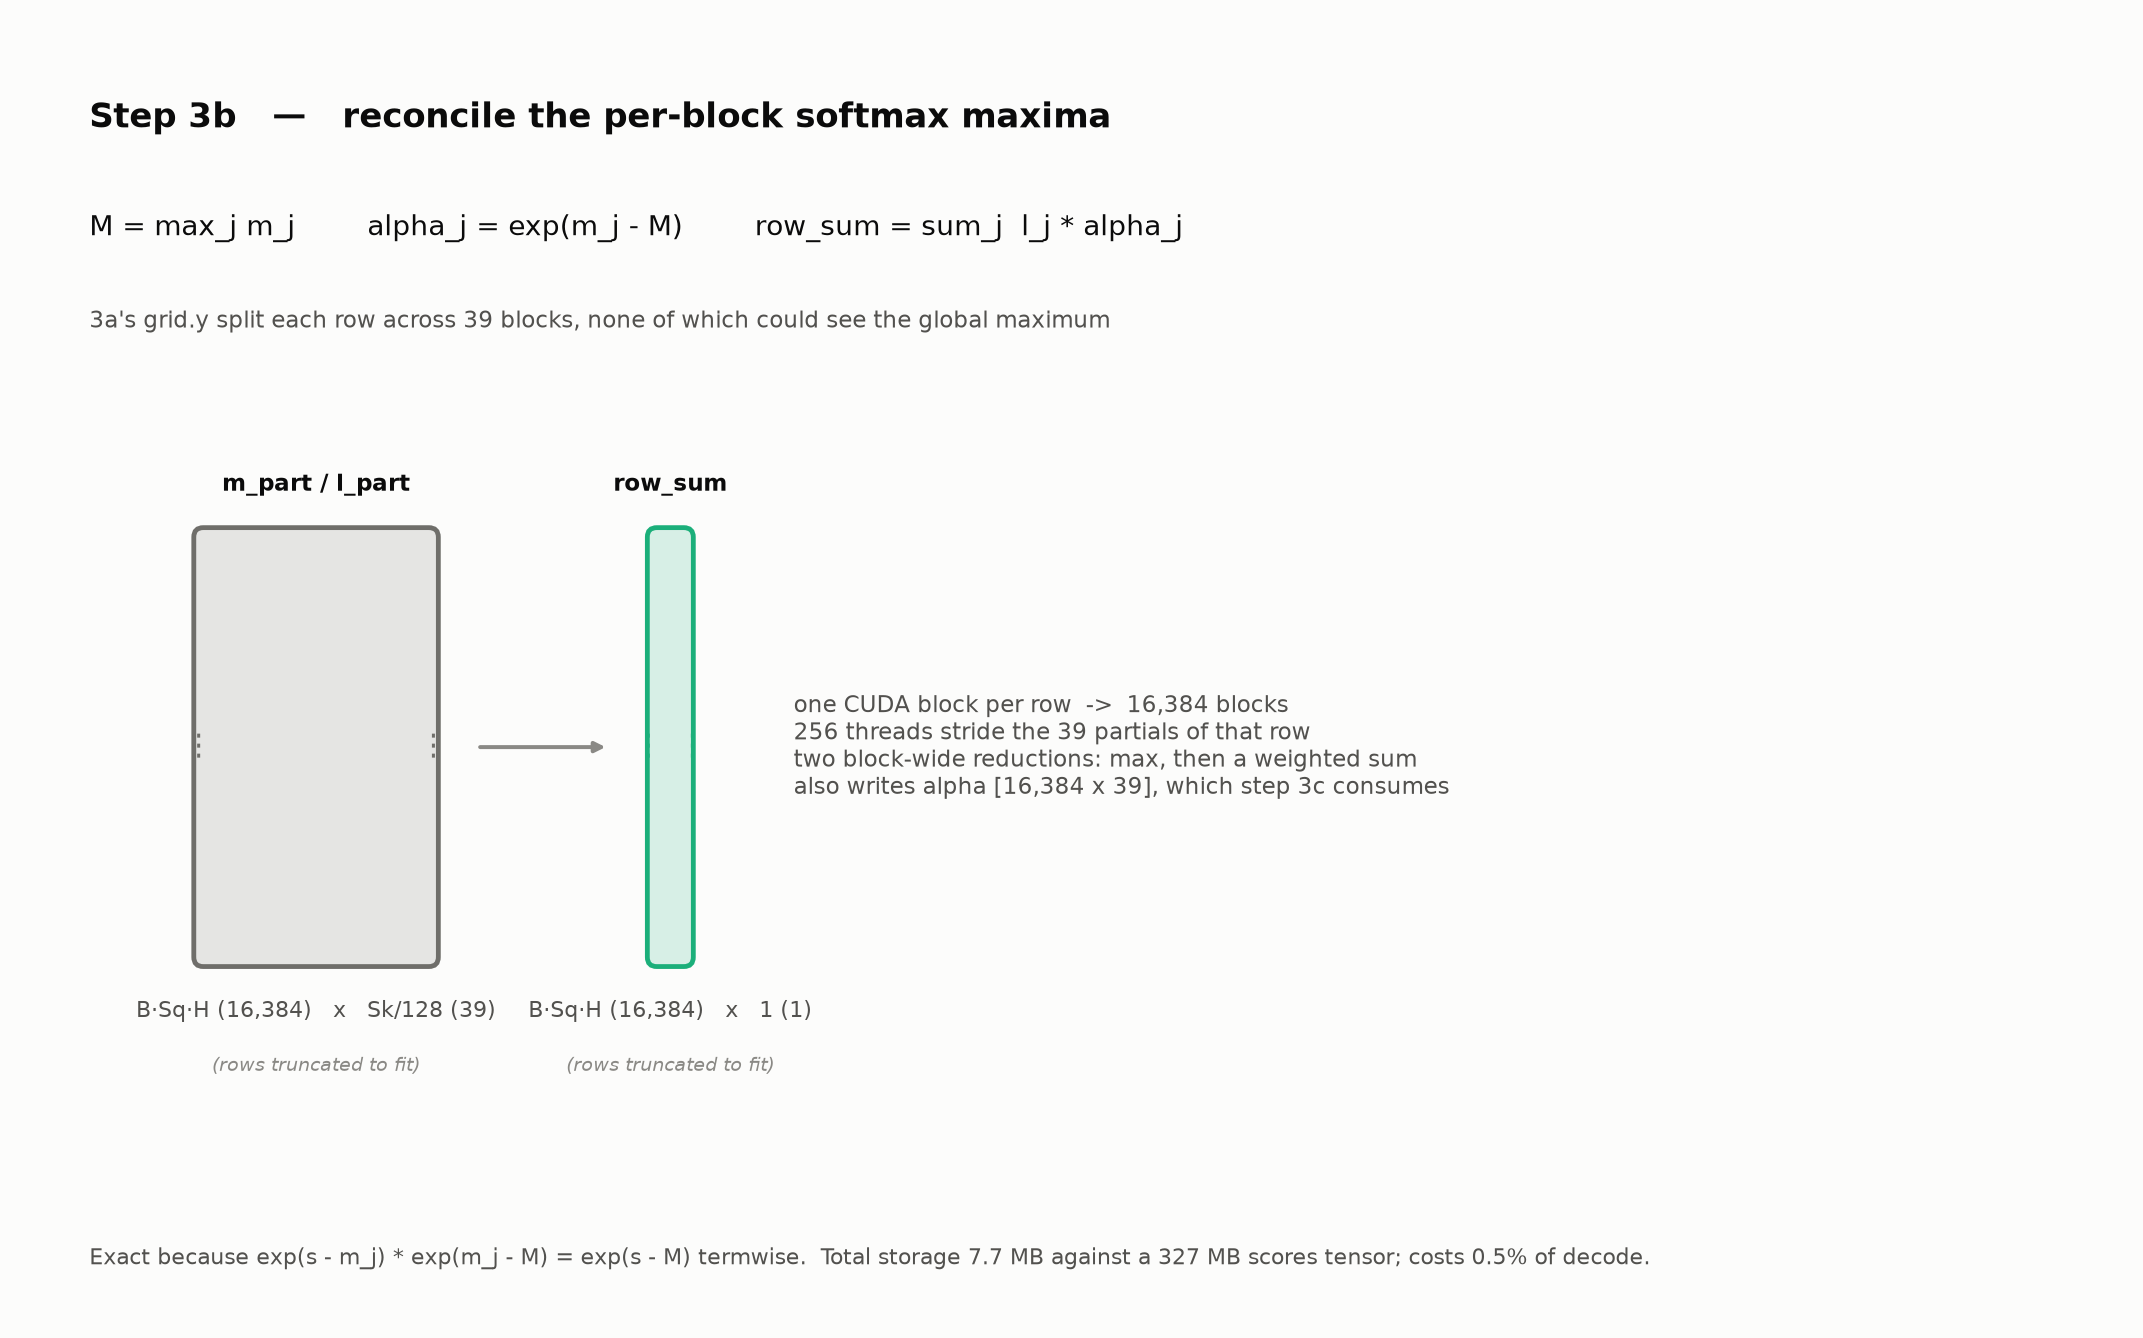
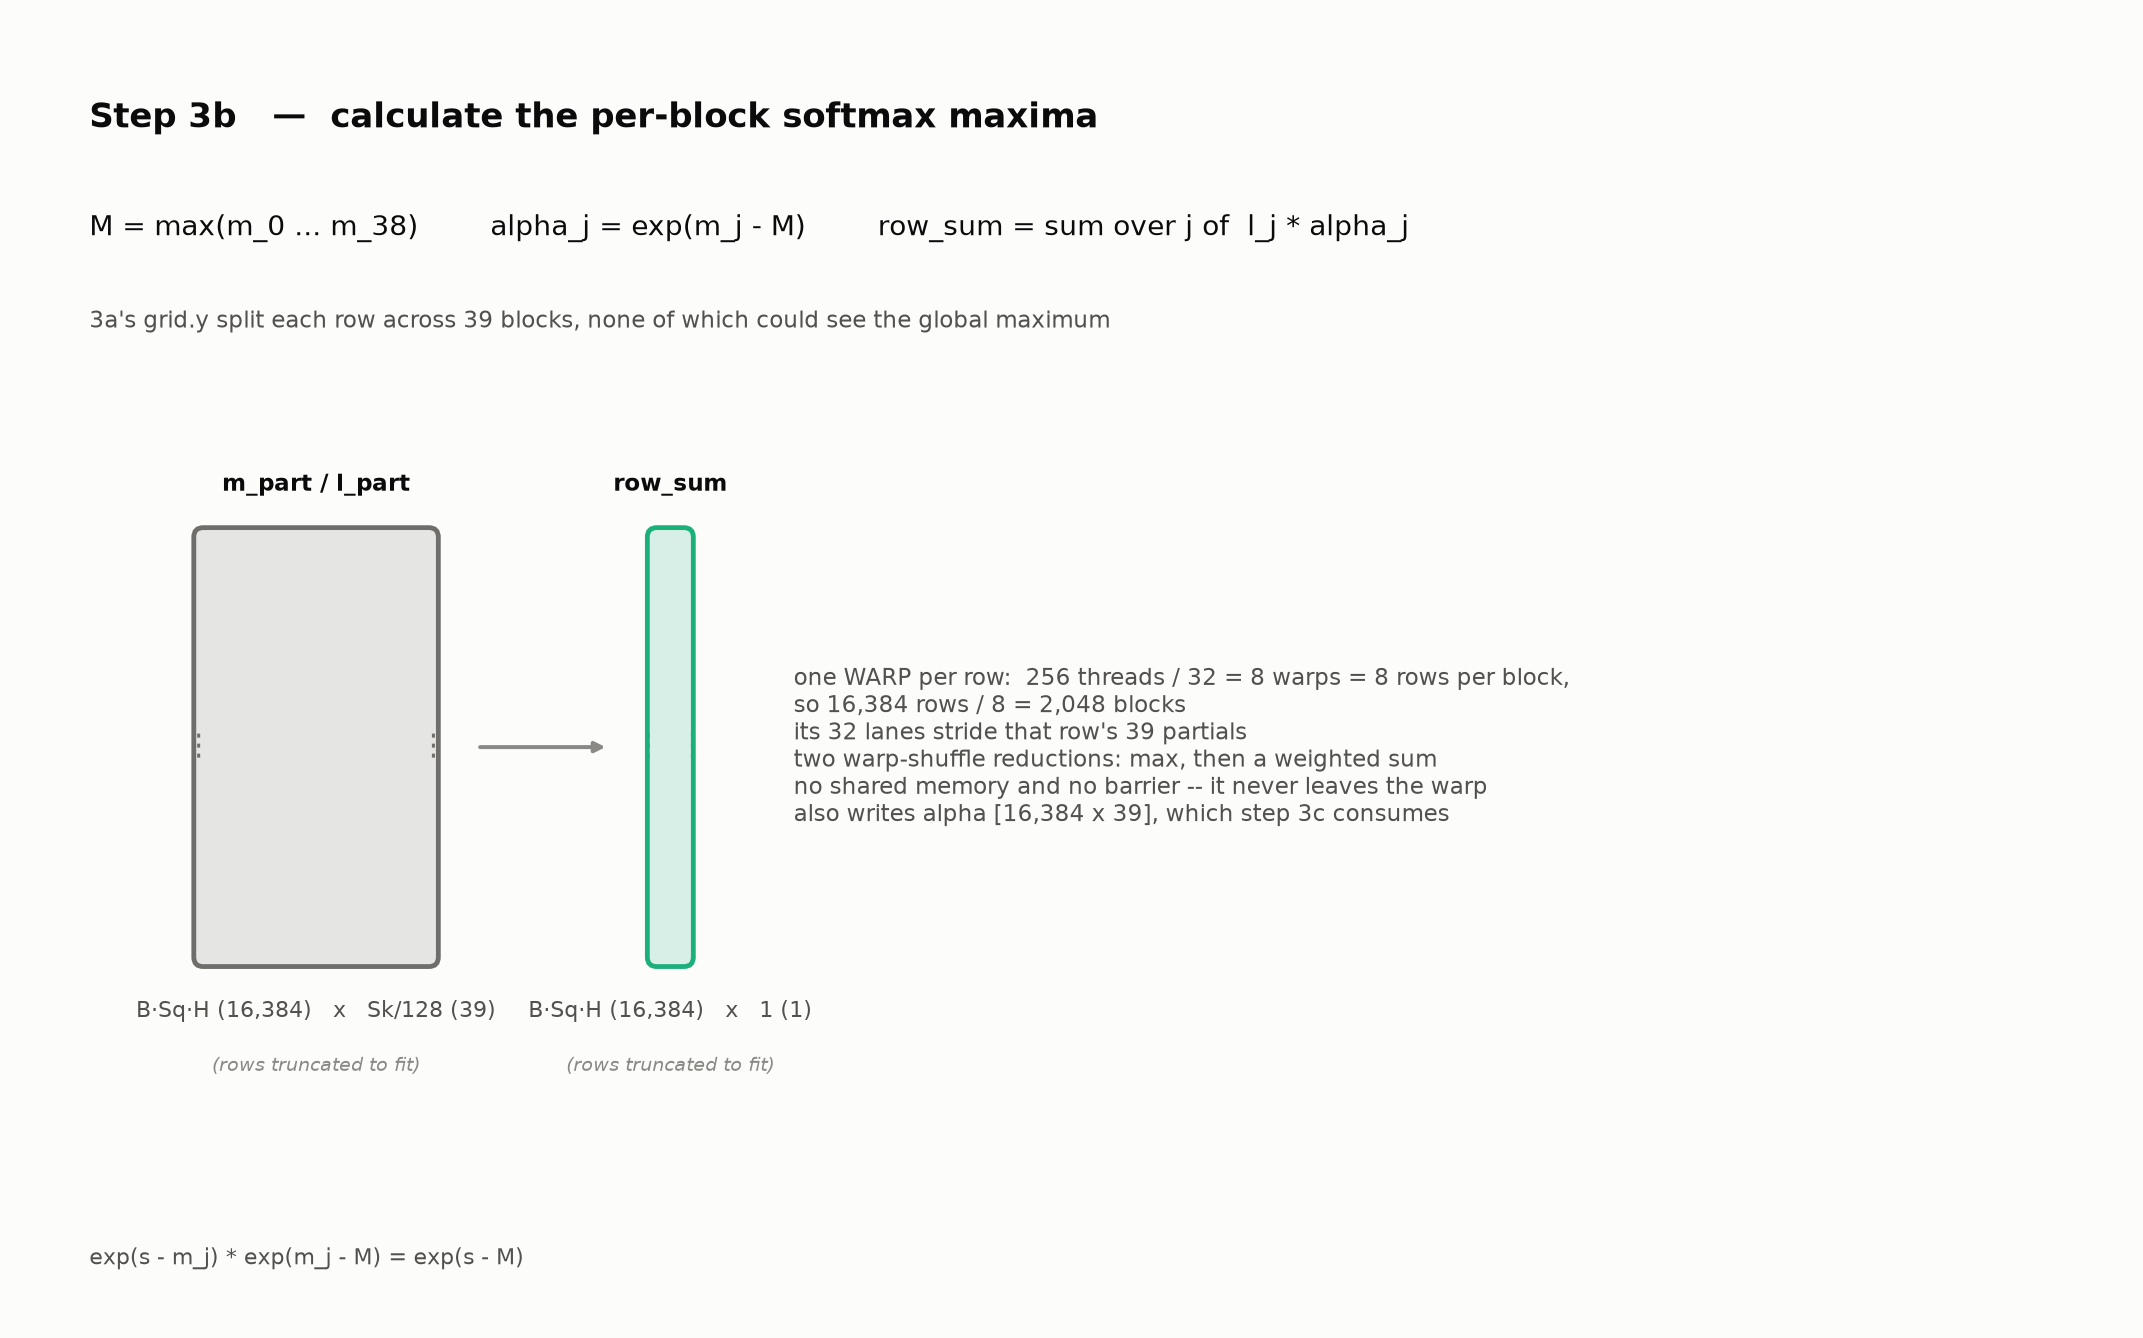
Updated 3a and benchmarks

diff --git a/docs/make_figures.py b/docs/make_figures.py
@@ -454,7 +454,8 @@ def steps():
          "128 row tiles -> grid.x", ("B·Sq·H", "kv_rank+rope")),
         ("[ c_kv | pe_cache ]^T", 576, 4989, KV_C, (128, 576),
          "39 key panels -> grid.y", ("kv_rank+rope", "Sk")),
-        ("scores", 16384, 4989, KV_C, (128, 128), "128 x 128 per block",
+        ("scores", 16384, 4989, KV_C, (128, 128),
+         "128 x 128 per block\nrow stride padded 4,989 -> 4,992 before storing,\nso every row starts on a 128 B line",
          ("B·Sq·H", "Sk")),
         "grid.x -> flat = B.Sq.H / 128 = 128 tiles   |   grid.y -> Sk / 128 = 39 tiles   |   no grid.z\n"
         "A block's 128 rows are the 128 heads of ONE query, so the [128 keys x 576] slab it stages -- 512 dims from c_kv, then 64 from pe_cache -- is read by all 128 of them.",
@@ -464,8 +465,8 @@ def steps():
     Hb = HEAD + PAD_T + MAXH + PAD_B + FOOT
     fig, ax = canvas(11, 11 * Hb / 100.0)
     H = Hb
-    step_header(ax, H, "Step 3b   —   reconcile the per-block softmax maxima",
-                "M = max_j m_j        alpha_j = exp(m_j - M)        row_sum = sum_j  l_j * alpha_j",
+    step_header(ax, H, "Step 3b   —  calculate the per-block softmax maxima",
+                "M = max(m_0 ... m_38)        alpha_j = exp(m_j - M)        row_sum = sum over j of  l_j * alpha_j",
                 "3a's grid.y split each row across 39 blocks, none of which could see the global maximum")
     ymid = H - HEAD - PAD_T - MAXH / 2.0
     sb = 0.30
@@ -478,14 +479,15 @@ def steps():
     matrix(ax, xa + 10.0, ymid, 16384, 1, 2.2, KV_C, "row_sum",
            syms=("B·Sq·H", "1"))
     ax.text(xa + 17.0, ymid,
-            "one CUDA block per row  ->  16,384 blocks\n"
-            "256 threads stride the 39 partials of that row\n"
-            "two block-wide reductions: max, then a weighted sum\n"
+            "one WARP per row:  256 threads / 32 = 8 warps = 8 rows per block,\n"
+            "so 16,384 rows / 8 = 2,048 blocks\n"
+            "its 32 lanes stride that row's 39 partials\n"
+            "two warp-shuffle reductions: max, then a weighted sum\n"
+            "no shared memory and no barrier -- it never leaves the warp\n"
             "also writes alpha [16,384 x 39], which step 3c consumes",
             va="center", fontsize=8.6, color=INK2)
     ax.text(3, 2.0,
-            "Exact because exp(s - m_j) * exp(m_j - M) = exp(s - M) termwise.  Total storage 7.7 MB against a 327 MB scores tensor; "
-            "costs 0.5% of decode.",
+            "exp(s - m_j) * exp(m_j - M) = exp(s - M)",
             fontsize=8.4, va="bottom", color=INK2)
     fig.savefig(os.path.join(OUT, "step_3b.png"), dpi=190, facecolor=SURFACE,
                 bbox_inches="tight", pad_inches=0.14)

diff --git a/README.md b/README.md
@@ -221,37 +221,54 @@ step:
   so a block's rows are the 128 heads of one query. The slab it stages is
   `[128 keys × 32 dims]` per reduction step, `[128 keys × 576]` over the whole
   block — 512 of those dims from `c_kv` and the last 64 from `pe_cache` — and every
-  one of the 128 heads reads it.
-- **Softmax exponentials moved *here*.** Step 3c stages each score once per rank
-  tile — 4 times — so any per-score work there is done 4× over. 3a sees each score
-  exactly once, in registers, so it exponentiates in the epilogue and gets the
-  row sum for free.
-- **Per-block partials instead of atomics.** Emitting `(m_j, l_j)` for step 3b to
-  reconcile removes a float `atomicMax` (which CUDA has no native instruction
-  for) and ~39 atomics per row.
-- **Output row-stride padded to 128 B lines.** A row stride that is not a whole
-  cache line makes every row start at a different offset; padding took store
-  sectors per request from **5.75 → 4.00**.
-- **The merged reduction costs nothing at the staging loop.** Because both
-  operand pairs are contiguous in `r` and the rope/nope choice is uniform across
-  the block, the shared recipe's base-pointer folding resolves that two-way
-  source select *once per reduction tile* rather than per staged element. Both
-  of this kernel's staging loops also split by the same 32, so they share one
-  invariant column index and one hoisted predicate. 3a ends at 107 registers.
+  one of the 128 heads requires it.
+- **Softmax exponentials.** Each score is already sitting in a register here, so
+  3a exponentiates it on the way out and accumulates a partial sum. `grid.y` gives a
+  block only 128 of the `Sk` keys: 8 keys in a thread's own registers, then the 16
+  threads sharing that row combined by an `__shfl_xor` butterfly. That needs no
+  shared memory and no barrier because those 16 threads are half of one warp. The
+  tile is sized for it — `16 threads × 8 keys = 128 = kScoreSkTile`, so a row's
+  whole slice is warp-local. What block `j` ends up with is the pair `(m_j, l_j)`:
+  the largest score it saw, and `l_j = Σ exp(s − m_j)` over its 128 keys. The 39
+  such pairs per row are reconciled into the real denominator by 3b.
+- **Output row-stride padded to 128 B lines.** `scores` is `Sk` wide and `Sk` is a
+  runtime value: at 4,989 a row is 19,956 B, not a whole number of cache lines, so
+  each row begins at a different offset inside one and a warp's 64 B store run
+  straddles a sector boundary instead of filling two. Rounding the stride up to
+  4,992 floats — the next multiple of 32 — starts every row on a line. The 3 pad 
+  columns are never written or read.
+- **Switching operands mid-reduction is free.** Running one 576-deep loop means
+  the staging code has to pick its source at `r = 512` — `c_kv` before it,
+  `pe_cache` after — which could have meant a test per staged element. There is a
+  flag `rope = r0 >= kv_rank`, where `r0` is the reduction-tile counter walking
+  `0, 32, 64 … 544` through the 576 depth. Being a loop counter, it is identical
+  for every thread and constant for the whole tile — no branch per element and
+  no divergence. That same 32 is what both staging loops, q side and c_kv cache 
+  side, divide their index by, so the column index and its `< tile_len` predicate 
+  are computed once and serve both.
 
-## Step 3b — Reconcile the Per-Block Softmax Maxima
+## Step 3b — Calculate the Per-Block Softmax Maxima
 
 ![Step 3b](docs/step_3b.png)
 
 **Techniques Specific to This Step**
 
-- **The flash-softmax combine, done as a separate pass.** Exact because
-  `exp(s − m_j) · exp(m_j − M) = exp(s − M)` holds termwise for *any* `m_j`.
-- **The kernel boundary is the grid-wide barrier**, for free. This cannot be done
-  with atomics inside 3a: `(M, L)` is a *coupled* two-word update — `L`'s
-  correction depends on `M`'s new value — which would need a lock or a 128-bit CAS
-  under heavy contention.
-- **`alpha` does double duty**: it is the weight in this kernel's denominator sum
+- **The flash-softmax combine as a separate pass.** Softmax needs `exp(s − M)`
+  with `M` the maximum over all `Sk` keys of the row, but each 3a block saw only
+  its own 128 of them, so block `j` exponentiated against its *local* maximum `m_j`
+  and stored `exp(s − m_j)`. 3b reads the 39 maxima of a row, takes the largest of
+  them, `M = max(m_0 … m_38)`, and writes the correction `alpha_j = exp(m_j − M)`. 
+  One multiply then repairs any stored score, `exp(s − m_j) · exp(m_j − M) = exp(s − M)`. 
+  The same `alpha_j` reweights the partial sums into the real denominator: 
+  `row_sum = Σ l_j · alpha_j` over the 39 partials.
+- **The kernel boundary is the grid-wide barrier.** `M` is not knowable until all
+  39 of a row's blocks have reported, and blocks within one launch cannot wait for
+  each other — so ending 3a and starting 3b *is* that barrier. Atomics would not
+  substitute: `(M, row_sum)` is a **coupled** update, since raising `M` invalidates
+  every term already accumulated into `row_sum` — they all need rescaling by
+  `exp(M_old − M_new)` — so the pair has to move as one indivisible step, which
+  takes a lock rather than an atomic. 
+- **`alpha` does double duty**: Weight in this kernel's denominator sum
   *and* exactly the factor step 3c needs, so one array serves both.
 
 ## Step 3c — Context
@@ -289,14 +306,24 @@ step:
 
 ## What the Baseline Is
 
-`baseline_official_mla_attention` in
-[exhaustive_benchmark_suite.py](exhaustive_benchmark_suite.py) — the **same
-algorithm** in idiomatic PyTorch on cuBLAS, transcribed from DeepSeek-V3's
-official `inference/model.py` absorbed path: two GEMMs for the Q projection, a
-batched GEMM for the absorb, two einsums for scores, `torch.softmax`, then two
-more einsums for context and output.
+[`baseline_official_mla_attention`](exhaustive_benchmark_suite.py#L387) runs the
+**same nine steps** in idiomatic PyTorch on cuBLAS, transcribed from DeepSeek-V3's
+official `inference/model.py` absorbed path. Step for step:
 
-What makes it a fair comparison rather than a strawman:
+| step | what the baseline calls |
+|---|---|
+| 2a1, 2a-norm, 2a2 | `x @ W_q.a` → `rmsnorm` → `@ W_q.b` |
+| 2b | `apply_rope` on the `[..., 128:192]` slice |
+| 2c | `einsum("bsni,nir->bsnr")` — a batched GEMM, one per head |
+| 3a | `einsum("bqhr,bsr->bqhs")` + `einsum("bqhd,bsd->bqhs")`, summed and scaled |
+| 3b | no counterpart — `torch.softmax(dim=-1)` does the max, exp and divide in one |
+| 3c | `einsum("bqhs,bsr->bqhr")` |
+| 3d | `einsum("bqhr,hdr->bqhd")` |
+
+Every intermediate is materialized on both sides, including the `[B, Sq, H, Sk]`
+score matrix, so neither implementation is getting a fusion the other cannot.
+
+What makes it a fair comparison:
 
 - **Identical mathematics and shapes.** Both sides consume the same factorized
   `W_q_a / q_norm_w / W_q_b`, the same `wkv_b`, the same absolute positions.
@@ -305,7 +332,6 @@ What makes it a fair comparison rather than a strawman:
   cores.
 - **Both timed end to end**, Q-prep through output projection — the fused number
   includes all nine launches plus two `.contiguous()` copies.
-- **It is the real production path**, not a naive loop.
 
 Method: FP32, RTX A6000, idle GPU, `torch.cuda.Event` timing, 10 warm-up
 iterations, **L2 flushed with a 256 MB buffer between every timed iteration** so
@@ -356,19 +382,7 @@ taken.
 | **TOTAL** | **125.36** | 100% |
 
 **3a + 3c are 85% of decode.** Both are limited by shared-memory bandwidth, not
-by occupancy or instruction scheduling: at 0.25 loads/FMA the 8×8 register tile
-asks for 32 shared-memory words per clock against the 32 that sm_86 can deliver,
-so the reduction strip has no headroom to schedule into. Measured against that
-model — unrolling the strip by 2, 4 or 8 compiles without spilling and drops 3a
-from 127 to 110 registers, yet moves the benchmark by less than 1%, because
-extra ILP has nothing to hide behind. What *did* move it was removing issued
-work from the staging loops (see the GEMM recipe): measured as a matched
-before/after pair on one GPU in one session, that is 0.77× → 0.83× geometric
-mean, −7.3% fused time averaged over the ten scenarios and faster on every one
-of them. Applied to 3a and 3c first (−5.7%), then 2a1/2a2 and 2c (−1.3%), then
-3d (−0.5%) — the gains track each step's share of the total, and land hardest on
-the shapes where a narrow `bq` tile leaves the reduction strip with the least
-work to hide the staging behind.
+by occupancy or instruction scheduling. 
 
 ---
 
